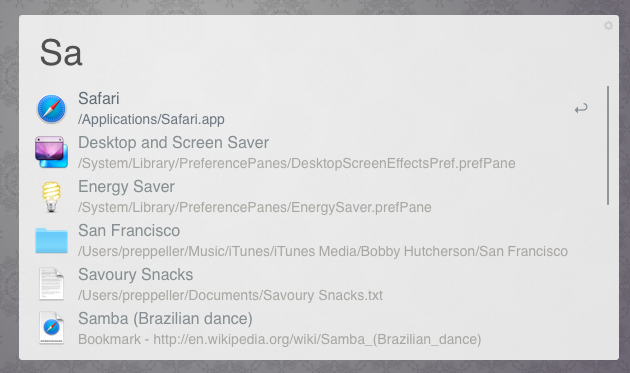
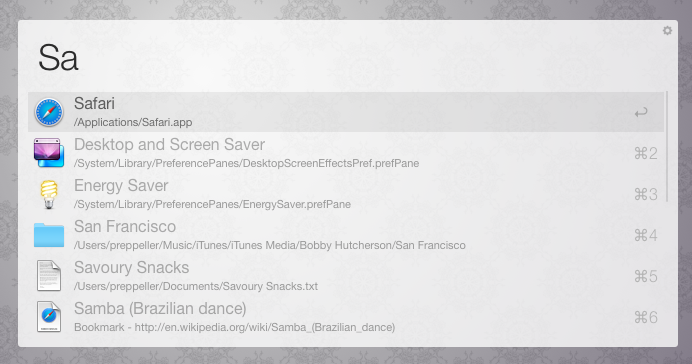
Add dark Yosemite theme

diff --git a/README.md b/README.md
@@ -1,11 +1,11 @@
 # Some themes what I done for [Alfred](http://www.alfredapp.com)
 Feel free to use/remix as you wish. **[DOWNLOAD](https://github.com/iest/themes4alfred/releases/download/1.0.0/themes4alfred.zip)**
 
+#### Yosemite Dark
+![yosemite_dark](https://raw.github.com/iest/themes4alfred/master/yosemite_dark.png)
+
 #### Yosemite
 ![yosemite](https://raw.github.com/iest/themes4alfred/master/yosemite.png)
-
-#### Yosemite Clean
-![yosemite_clean](https://raw.github.com/iest/themes4alfred/master/yosemite_clean.png)
 
 #### Spacegrey Eighties
 ![spacegrey_eighties](https://raw.github.com/iest/themes4alfred/master/spacegray_eighties.png)
